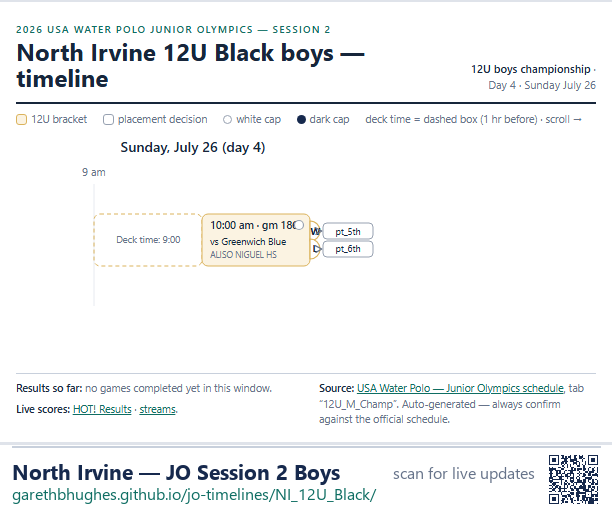
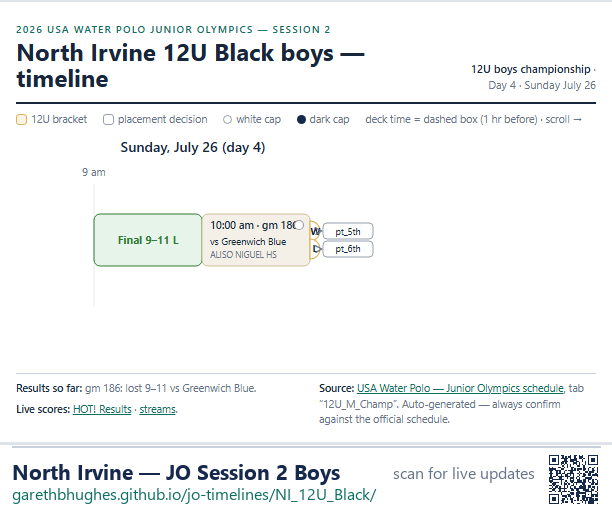
refresh 2026-07-26T11:48

Changed region(s): [[0.1552, 0.4039, 0.4967, 0.5282], [0.1242, 0.7456, 0.4346, 0.7767], [0.1242, 0.435, 0.1552, 0.4971]]

diff --git a/NI_12U_Black/index.html b/NI_12U_Black/index.html
@@ -56,10 +56,10 @@ h2 { font-size:14px; text-transform:uppercase; letter-spacing:.06em; color:var(-
 <header class="site" style="margin-top:8px"><p class="eyebrow">2026 USA Water Polo Junior Olympics — Session 2</p>
 <h1>North Irvine 12U Black boys</h1>
 <p class="stamp"><b>12U boys championship</b> · <br>
-Last verified against the master schedule at Sunday July 26, 11:34 AM</p></header>
-<div class="next"><p class="next-h">Next game</p><p class="next-opp">vs Greenwich Blue</p><dl class="next-grid"><dt>When</dt><dd>Sunday July 26 · 10:00 am</dd><dt>Deck</dt><dd>9:00</dd><dt>Where</dt><dd>ALISO NIGUEL HS</dd><dt>Caps</dt><dd>white caps</dd><dt>Game</dt><dd>#186</dd></dl><p class="scout"><b>Scouting report:</b> Greenwich Blue (seed 21) is 4–2 in this session so far — beat Santa Cruz 20–2; beat San Jose Express 16–7; beat Cc United Black 13–8; lost to Sd Dons Red 7–9; lost to Mission A 8–11. They&#x27;re averaging 12.7 goals for and 7 against.</p></div>
+Last verified against the master schedule at Sunday July 26, 11:48 AM</p></header>
+
 
 <img class="tl" src="portrait.png" alt="Upcoming games timeline for North Irvine 12U Black boys">
-<h2>Change log</h2><ul class="log"><li><time>7:03 PM</time>Game 186 set: vs Greenwich Blue, 10:00 am at ALISO NIGUEL HS.</li><li><time>6:03 PM</time>Game 173 set: vs SD Dons RED, 8:00 am at WOOLLETT LEFT.</li><li><time>6:03 PM</time>Game 186 set: vs loser of gm 161, 10:00 am at ALISO NIGUEL HS.</li><li><time>6:03 PM</time>Game 157 score updated (vs Stanford RED).</li><li><time>5:17 PM</time>Game 182 set: vs CC United Black, 7:00 am at SAN CLEMENTE HS.</li><li><time>5:17 PM</time>Game 181 set: vs San Clemente RED, 8:00 am at SAN CLEMENTE HS.</li><li><time>5:17 PM</time>Game 182 set: vs CC United Black, 7:00 am at SAN CLEMENTE HS.</li><li><time>5:17 PM</time>Game 181 set: vs San Clemente RED, 8:00 am at SAN CLEMENTE HS.</li><li><time>4:16 PM</time>Game 182 set: vs winner of gm 153, 7:00 am at SAN CLEMENTE HS.</li><li><time>4:16 PM</time>Game 181 set: vs loser of gm 153, 8:00 am at SAN CLEMENTE HS.</li><li><time>4:16 PM</time>Game 149 score updated (vs Newport Beach Blue).</li><li><time>3:16 PM</time>Game 185 set: vs SD Dons Black, 9:00 am at ALISO NIGUEL HS.</li><li><time>2:29 PM</time>Game 117 score updated (vs 680 RED).</li><li><time>2:29 PM</time>Game 173 set: vs SD Dons RED, 8:00 am at WOOLLETT LEFT.</li><li><time>2:29 PM</time>Game 185 set: vs loser of gm 145, 9:00 am at ALISO NIGUEL HS.</li><li><time>2:29 PM</time>Game 141 score updated (vs Tsunami).</li><li><time>2:29 PM</time>Game 157 set: vs Stanford RED, 4:20 pm at ALISO NIGUEL HS.</li><li><time>9:53 AM</time>Game 117 score updated (vs 680 RED).</li><li><time>9:53 AM</time>Game 141 set: vs Tsunami, 1:00 pm at ALISO NIGUEL HS.</li><li><time>9:53 AM</time>Game 149 set: vs Newport Beach Blue, 2:40 pm at ALISO NIGUEL HS.</li><li><time>7:54 PM</time>Game 117 set: vs 680 RED, 8:00 am at ALISO NIGUEL HS.</li><li><time>4:36 PM</time>Game 117 set: vs winner of gm 110, 8:00 am at ALISO NIGUEL HS.</li><li><time>4:21 PM</time>Game 98 score updated (vs Greenwich Blue).</li><li><time>3:31 PM</time>Game 66 score updated (vs CC United Black).</li><li><time>3:31 PM</time>Game 98 set: vs Greenwich Blue, 2:30 pm at PORTOLA HS 2.</li><li><time>3:27 PM</time>Game 66 score updated (vs CC United Black).</li><li><time>3:27 PM</time>Game 98 set: vs Greenwich Blue, 2:30 pm at PORTOLA HS 2.</li><li><time>8:42 AM</time>Game 10 score updated (vs Topaz Tsunami).</li><li><time>8:42 AM</time>Game 34 time changed to 2:00 pm (vs winner of gm 14).</li></ul>
-<div class="fineprint"><p><b>Results so far:</b> no games completed yet in this window.</p><p><b>Live scores:</b> <a href="https://kahunaevents.org">HOT! Results</a> · <a href="https://gols.co/2026-usawp-junior-olympics-session-2/">streams</a>.</p><p><b>Source:</b> <a href="https://usawaterpolo.org/sports/2018/12/19/junior-olympics.aspx#schedule">USA Water Polo — Junior Olympics schedule</a>, tab “12U_M_Champ”. Auto-generated — always confirm against the official schedule.</p></div>
+<h2>Change log</h2><ul class="log"><li><time>11:48 AM</time>Game 186 score updated (vs Greenwich Blue).</li><li><time>7:03 PM</time>Game 186 set: vs Greenwich Blue, 10:00 am at ALISO NIGUEL HS.</li><li><time>6:03 PM</time>Game 173 set: vs SD Dons RED, 8:00 am at WOOLLETT LEFT.</li><li><time>6:03 PM</time>Game 186 set: vs loser of gm 161, 10:00 am at ALISO NIGUEL HS.</li><li><time>6:03 PM</time>Game 157 score updated (vs Stanford RED).</li><li><time>5:17 PM</time>Game 182 set: vs CC United Black, 7:00 am at SAN CLEMENTE HS.</li><li><time>5:17 PM</time>Game 181 set: vs San Clemente RED, 8:00 am at SAN CLEMENTE HS.</li><li><time>5:17 PM</time>Game 182 set: vs CC United Black, 7:00 am at SAN CLEMENTE HS.</li><li><time>5:17 PM</time>Game 181 set: vs San Clemente RED, 8:00 am at SAN CLEMENTE HS.</li><li><time>4:16 PM</time>Game 182 set: vs winner of gm 153, 7:00 am at SAN CLEMENTE HS.</li><li><time>4:16 PM</time>Game 181 set: vs loser of gm 153, 8:00 am at SAN CLEMENTE HS.</li><li><time>4:16 PM</time>Game 149 score updated (vs Newport Beach Blue).</li><li><time>3:16 PM</time>Game 185 set: vs SD Dons Black, 9:00 am at ALISO NIGUEL HS.</li><li><time>2:29 PM</time>Game 117 score updated (vs 680 RED).</li><li><time>2:29 PM</time>Game 173 set: vs SD Dons RED, 8:00 am at WOOLLETT LEFT.</li><li><time>2:29 PM</time>Game 185 set: vs loser of gm 145, 9:00 am at ALISO NIGUEL HS.</li><li><time>2:29 PM</time>Game 141 score updated (vs Tsunami).</li><li><time>2:29 PM</time>Game 157 set: vs Stanford RED, 4:20 pm at ALISO NIGUEL HS.</li><li><time>9:53 AM</time>Game 117 score updated (vs 680 RED).</li><li><time>9:53 AM</time>Game 141 set: vs Tsunami, 1:00 pm at ALISO NIGUEL HS.</li><li><time>9:53 AM</time>Game 149 set: vs Newport Beach Blue, 2:40 pm at ALISO NIGUEL HS.</li><li><time>7:54 PM</time>Game 117 set: vs 680 RED, 8:00 am at ALISO NIGUEL HS.</li><li><time>4:36 PM</time>Game 117 set: vs winner of gm 110, 8:00 am at ALISO NIGUEL HS.</li><li><time>4:21 PM</time>Game 98 score updated (vs Greenwich Blue).</li><li><time>3:31 PM</time>Game 66 score updated (vs CC United Black).</li><li><time>3:31 PM</time>Game 98 set: vs Greenwich Blue, 2:30 pm at PORTOLA HS 2.</li><li><time>3:27 PM</time>Game 66 score updated (vs CC United Black).</li><li><time>3:27 PM</time>Game 98 set: vs Greenwich Blue, 2:30 pm at PORTOLA HS 2.</li><li><time>8:42 AM</time>Game 10 score updated (vs Topaz Tsunami).</li><li><time>8:42 AM</time>Game 34 time changed to 2:00 pm (vs winner of gm 14).</li></ul>
+<div class="fineprint"><p><b>Results so far:</b> gm 186: lost 9–11 vs Greenwich Blue.</p><p><b>Live scores:</b> <a href="https://kahunaevents.org">HOT! Results</a> · <a href="https://gols.co/2026-usawp-junior-olympics-session-2/">streams</a>.</p><p><b>Source:</b> <a href="https://usawaterpolo.org/sports/2018/12/19/junior-olympics.aspx#schedule">USA Water Polo — Junior Olympics schedule</a>, tab “12U_M_Champ”. Auto-generated — always confirm against the official schedule.</p></div>
 </div></body></html>

diff --git a/index.html b/index.html
@@ -54,7 +54,7 @@ h2 { font-size:14px; text-transform:uppercase; letter-spacing:.06em; color:var(-
 </style></head><body><div class="wrap">
 <header class="site"><p class="eyebrow">2026 USA Water Polo Junior Olympics — Session 2</p>
 <h1>North Irvine — JO Session 2 Boys</h1>
-<p class="stamp">Last refreshed Sunday July 26, 11:34 AM · auto-updates from the master schedule</p></header>
+<p class="stamp">Last refreshed Sunday July 26, 11:48 AM · auto-updates from the master schedule</p></header>
 <p>Tap your team for the up-to-date timeline (win/loss paths, times, venues, deck times):</p>
 <ul class="teams"><a href="NI_12U_Black/"><span>North Irvine 12U Black boys</span><span class="div">12U boys championship →</span></a><a href="NI_14U_Black/"><span>North Irvine 14U Black boys</span><span class="div">14U boys championship →</span></a><a href="NI_18U_Black/"><span>North Irvine 18U Black boys</span><span class="div">18U boys championship →</span></a><a href="NI_18U_Red/"><span>North Irvine 18U Red boys</span><span class="div">18U boys championship →</span></a><a href="NI_12U_Red/"><span>North Irvine 12U Red boys</span><span class="div">12U boys classic →</span></a><a href="NI_14U_Red/"><span>North Irvine 14U Red boys</span><span class="div">14U boys invite →</span></a></ul>
 <p class="links"><b>Live scores:</b> <a href="https://kahunaevents.org">HOT! Results</a> ·

diff --git a/NI_14U_Black/index.html b/NI_14U_Black/index.html
@@ -56,7 +56,7 @@ h2 { font-size:14px; text-transform:uppercase; letter-spacing:.06em; color:var(-
 <header class="site" style="margin-top:8px"><p class="eyebrow">2026 USA Water Polo Junior Olympics — Session 2</p>
 <h1>North Irvine 14U Black boys</h1>
 <p class="stamp"><b>14U boys championship</b> · <br>
-Last verified against the master schedule at Sunday July 26, 11:34 AM</p></header>
+Last verified against the master schedule at Sunday July 26, 11:48 AM</p></header>
 <div class="next"><p class="next-h">Next game</p><p class="next-opp">vs SD Dons 13A Gold</p><dl class="next-grid"><dt>When</dt><dd>Sunday July 26 · 11:00 am</dd><dt>Deck</dt><dd>10:00</dd><dt>Where</dt><dd>UC IRVINE 1</dd><dt>Caps</dt><dd>dark caps</dd><dt>Game</dt><dd>#189</dd></dl><p class="scout"><b>Scouting report:</b> Sd Dons 13A Gold (seed 21) is 4–4 in this session so far — beat Santa Barbara Wpc A 16–3; beat Greenwich White 15–5; beat Northwest 17–13; lost to La Jolla United 6–12; lost to 680 Red 6–11; lost to North Irvine Black 6–7. They&#x27;re averaging 10.9 goals for and 8.5 against. Common opponent Santa Barbara Wpc A: you lost 7–9, they won 16–3.</p></div>
 
 <img class="tl" src="portrait.png" alt="Upcoming games timeline for North Irvine 14U Black boys">

diff --git a/NI_18U_Black/index.html b/NI_18U_Black/index.html
@@ -56,7 +56,7 @@ h2 { font-size:14px; text-transform:uppercase; letter-spacing:.06em; color:var(-
 <header class="site" style="margin-top:8px"><p class="eyebrow">2026 USA Water Polo Junior Olympics — Session 2</p>
 <h1>North Irvine 18U Black boys</h1>
 <p class="stamp"><b>18U boys championship</b> · <br>
-Last verified against the master schedule at Sunday July 26, 11:34 AM</p></header>
+Last verified against the master schedule at Sunday July 26, 11:48 AM</p></header>
 
 
 <img class="tl" src="portrait.png" alt="Upcoming games timeline for North Irvine 18U Black boys">

diff --git a/NI_18U_Red/index.html b/NI_18U_Red/index.html
@@ -56,7 +56,7 @@ h2 { font-size:14px; text-transform:uppercase; letter-spacing:.06em; color:var(-
 <header class="site" style="margin-top:8px"><p class="eyebrow">2026 USA Water Polo Junior Olympics — Session 2</p>
 <h1>North Irvine 18U Red boys</h1>
 <p class="stamp"><b>18U boys championship</b> · <br>
-Last verified against the master schedule at Sunday July 26, 11:34 AM</p></header>
+Last verified against the master schedule at Sunday July 26, 11:48 AM</p></header>
 
 
 <img class="tl" src="portrait.png" alt="Upcoming games timeline for North Irvine 18U Red boys">

diff --git a/NI_12U_Red/index.html b/NI_12U_Red/index.html
@@ -56,7 +56,7 @@ h2 { font-size:14px; text-transform:uppercase; letter-spacing:.06em; color:var(-
 <header class="site" style="margin-top:8px"><p class="eyebrow">2026 USA Water Polo Junior Olympics — Session 2</p>
 <h1>North Irvine 12U Red boys</h1>
 <p class="stamp"><b>12U boys classic</b> · <br>
-Last verified against the master schedule at Sunday July 26, 11:34 AM</p></header>
+Last verified against the master schedule at Sunday July 26, 11:48 AM</p></header>
 
 
 <img class="tl" src="portrait.png" alt="Upcoming games timeline for North Irvine 12U Red boys">

diff --git a/NI_14U_Red/index.html b/NI_14U_Red/index.html
@@ -56,7 +56,7 @@ h2 { font-size:14px; text-transform:uppercase; letter-spacing:.06em; color:var(-
 <header class="site" style="margin-top:8px"><p class="eyebrow">2026 USA Water Polo Junior Olympics — Session 2</p>
 <h1>North Irvine 14U Red boys</h1>
 <p class="stamp"><b>14U boys invite</b> · <br>
-Last verified against the master schedule at Sunday July 26, 11:34 AM</p></header>
+Last verified against the master schedule at Sunday July 26, 11:48 AM</p></header>
 
 
 <img class="tl" src="portrait.png" alt="Upcoming games timeline for North Irvine 14U Red boys">
